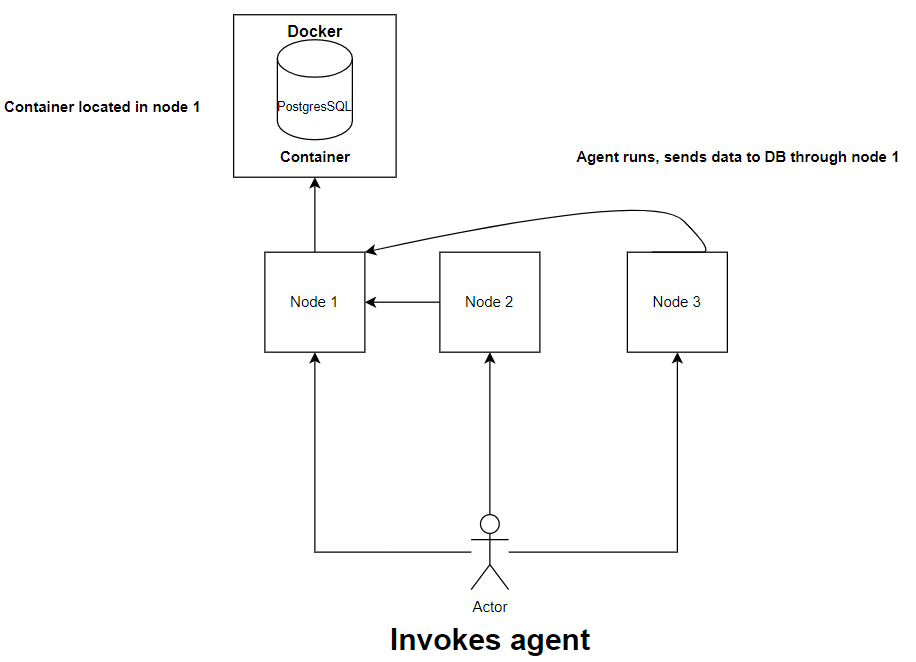
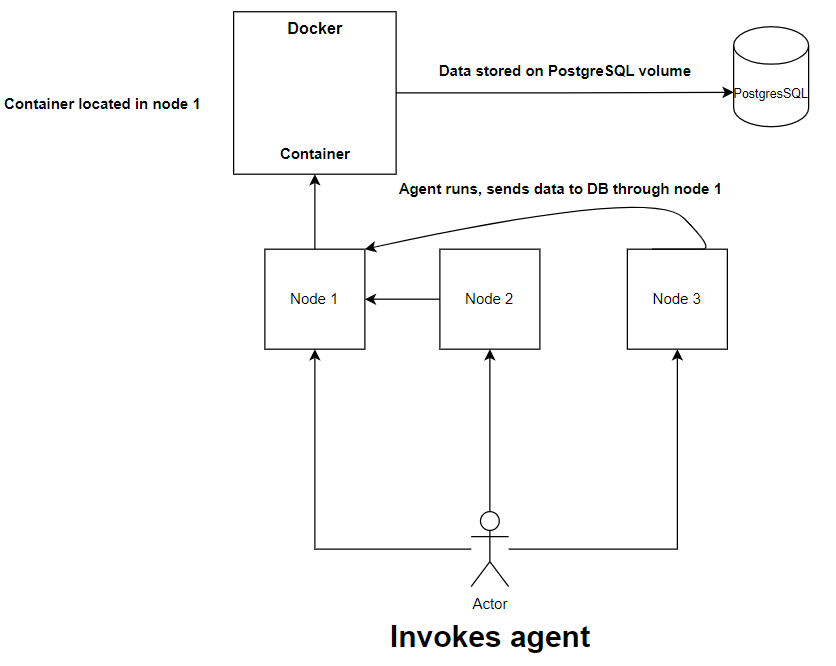
final README

diff --git a/linux_sql/README.md b/linux_sql/README.md
@@ -1,23 +1,23 @@
 # Linux Cluster Monitoring Agent
 
 # Introduction
-The Linux Cluster Monitoring Agent is a tool which allows a user to monitor every node in a Linux cluster. In particular, there are two categories of information which the agent collects and stores: the node's hardware data, and its software usage data. The Agent is written in Bash, and the collected data is stored in a PostgreSQL database on a Docker container. The server usage data is stored persistently (the hardware data is stored once per node). Cron is used to run the server usage script every minute. This allows the user to track the status of every node in the cluster in real time.
+The Linux Cluster Monitoring Agent is a tool which allows a user to monitor every node in a Linux cluster. In particular, there are two categories of information which the agent collects and stores: the node's hardware data, and its software usage data. The Agent is written in Bash, and the collected data is stored in a PostgreSQL database managed by a Docker container. The server usage data is stored persistently (the hardware data is stored once per node). Cron is used to run the server usage script every minute. This allows the user to track the status of every node in the cluster in real time.
 # Quick Start
  - ```psql_docker.sh```:
    ```bash 
-   linux_sql/scripts/psql_docker.sh start [user] [password] 
+   linux_sql/scripts/psql_docker.sh "start" "[user]" "[password]" 
    ```
  - ```ddl.sh```:
    ```bash
-   psql -h  [host_name] -U [user]-d [psql_host] -f linux_sql/sql/ddl.sql  
+   psql -h  "[host_name]"-U "[user]"-d "[psql_host]" -f linux_sql/sql/ddl.sql  
    ```
  - ```host_info.sh```:
    ```bash
-   bash linux_sql/scripts/host_info.sh [psql_host] [psql_port] [db_name] [psql_user] [psql_password]
+   bash linux_sql/scripts/host_info.sh "[psql_host]" [psql_port] "[db_name]" "[psql_user]" "[psql_password]"
    ```
  - ```host_usage.sh```:
    ```bash
-   bash linux_sql/scripts/host_usage.sh [psql_host] [psql_port] [db_name] [psql_user] [psql_password]
+   bash linux_sql/scripts/host_usage.sh "[psql_host]" [psql_port] "[db_name]" "[psql_user]" "[psql_password]"
    ```
  - ```crontab``` job:  
    ```bash
@@ -27,13 +27,13 @@ The Linux Cluster Monitoring Agent is a tool which allows a user to monitor ever
 # Implementation
    The agent comprises four files and a crontab job. Three are written in Bash, one (```ddl.sql```) is written in SQL, and the crontab job is used to run one Bash script every minute. 
 ## Architecture
-   ![alt text](assets/ClusterDiagram.png)
+   ![alt text](C:\Users\petar\OneDrive\Pictures\ClusterDiagram.png)
 
-We see that the agent scripts are run on every node. The data is then stored in the PostgreSQL database. The Docker container holding the database is located in node 1.
+We see that the agent scripts are run on every node.
  
 ## Scripts
   1) ### Database and Docker Initialization
-      We must first ensure that the PostgreSQL instance is running, and that the tables which will hold our data have been created. We will do this by starting a Docker container, which the instance will be hosted in. We will use ```psql_docker.sh``` and ```ddl.sql```: 
+      We must first ensure that the PostgreSQL instance is running, and that the tables which will hold our data have been created. We will do this by starting a Docker container, and attaching a "volume". This volume is a PostgreSQL instance containing the tables which will store our data. We will use ```psql_docker.sh``` and ```ddl.sql```: 
       ```bash
        # Start the Docker container
        linux_sql/scripts/psql_docker.sh "start" "[user]" "[password]" 
@@ -49,7 +49,7 @@ We see that the agent scripts are run on every node. The data is then stored in 
      ```
 
   3) ### host_usage.sh Usage
-       This script will be run every minute, using the ```crontab``` job below. It is used to determine the node's software usage data at the moment of execution.
+       This script will be run every minute, using the ```crontab``` job below. It is used to determine the node's software usage data at the moment of execution. The data is stored persistently on the volume.
      ```bash
       # Determines the usage data, then enters them into the container
       bash linux_sql/scripts/host_usage.sh "[psql_host]" [psql_port] "[db_name]" "[psql_user]" "[psql_password]"
@@ -104,7 +104,7 @@ Both ```host_info.sh``` and ```host_usage.sh``` include INSERT statements to add
 
 # Deployment
 
-The agent uses a ```crontab``` job for automation. The data is stored on a PostgreSQL instance in a Docker container. The agent can be found in the ```linux_sql``` repository on GitHub.
+The agent uses a ```crontab``` job for automation. The data is stored on a PostgreSQL instance, managed by a Docker container. The agent can be found in the ```linux_sql``` repository on GitHub.
 
 # Improvements
 
